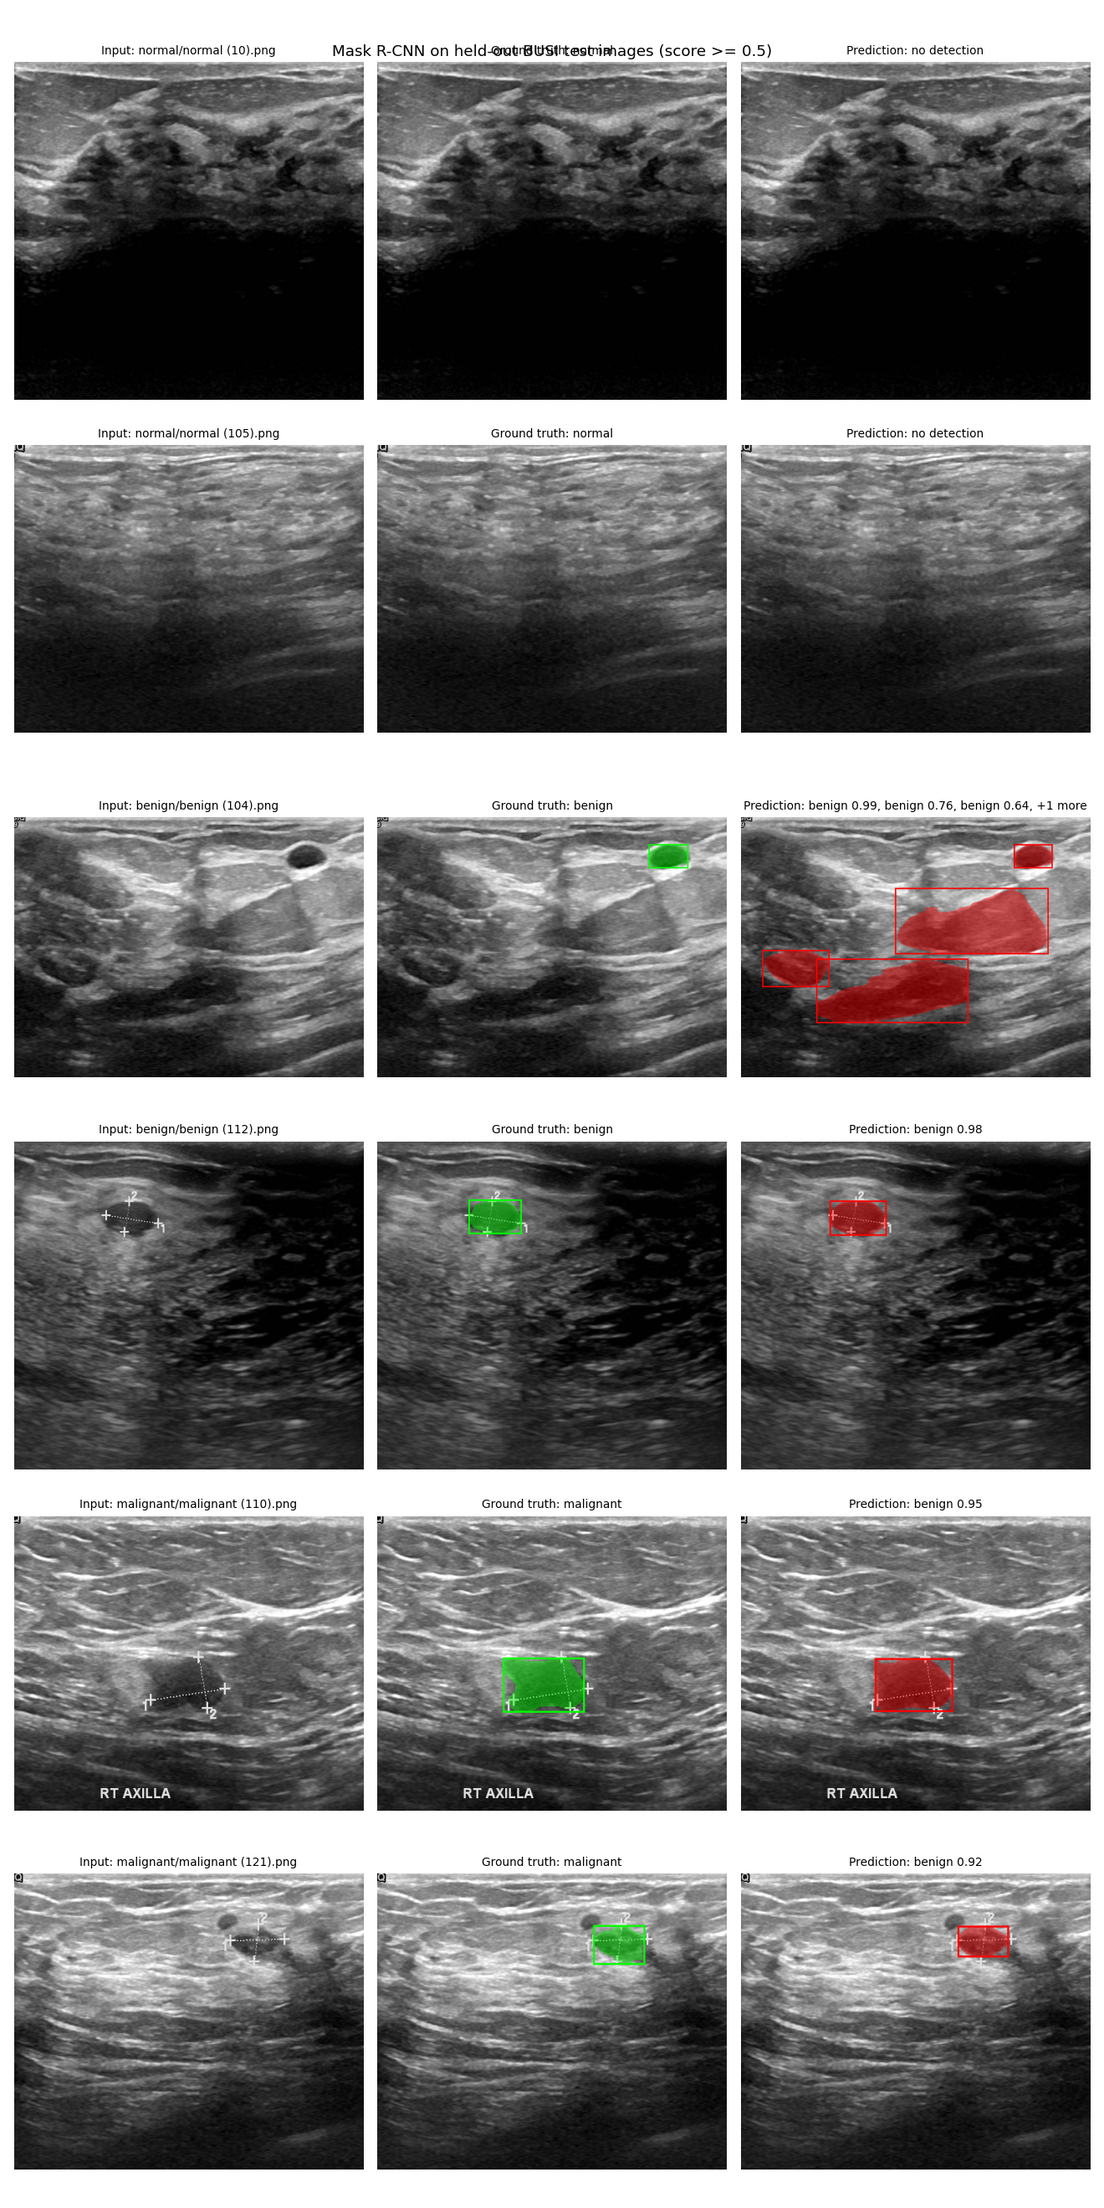
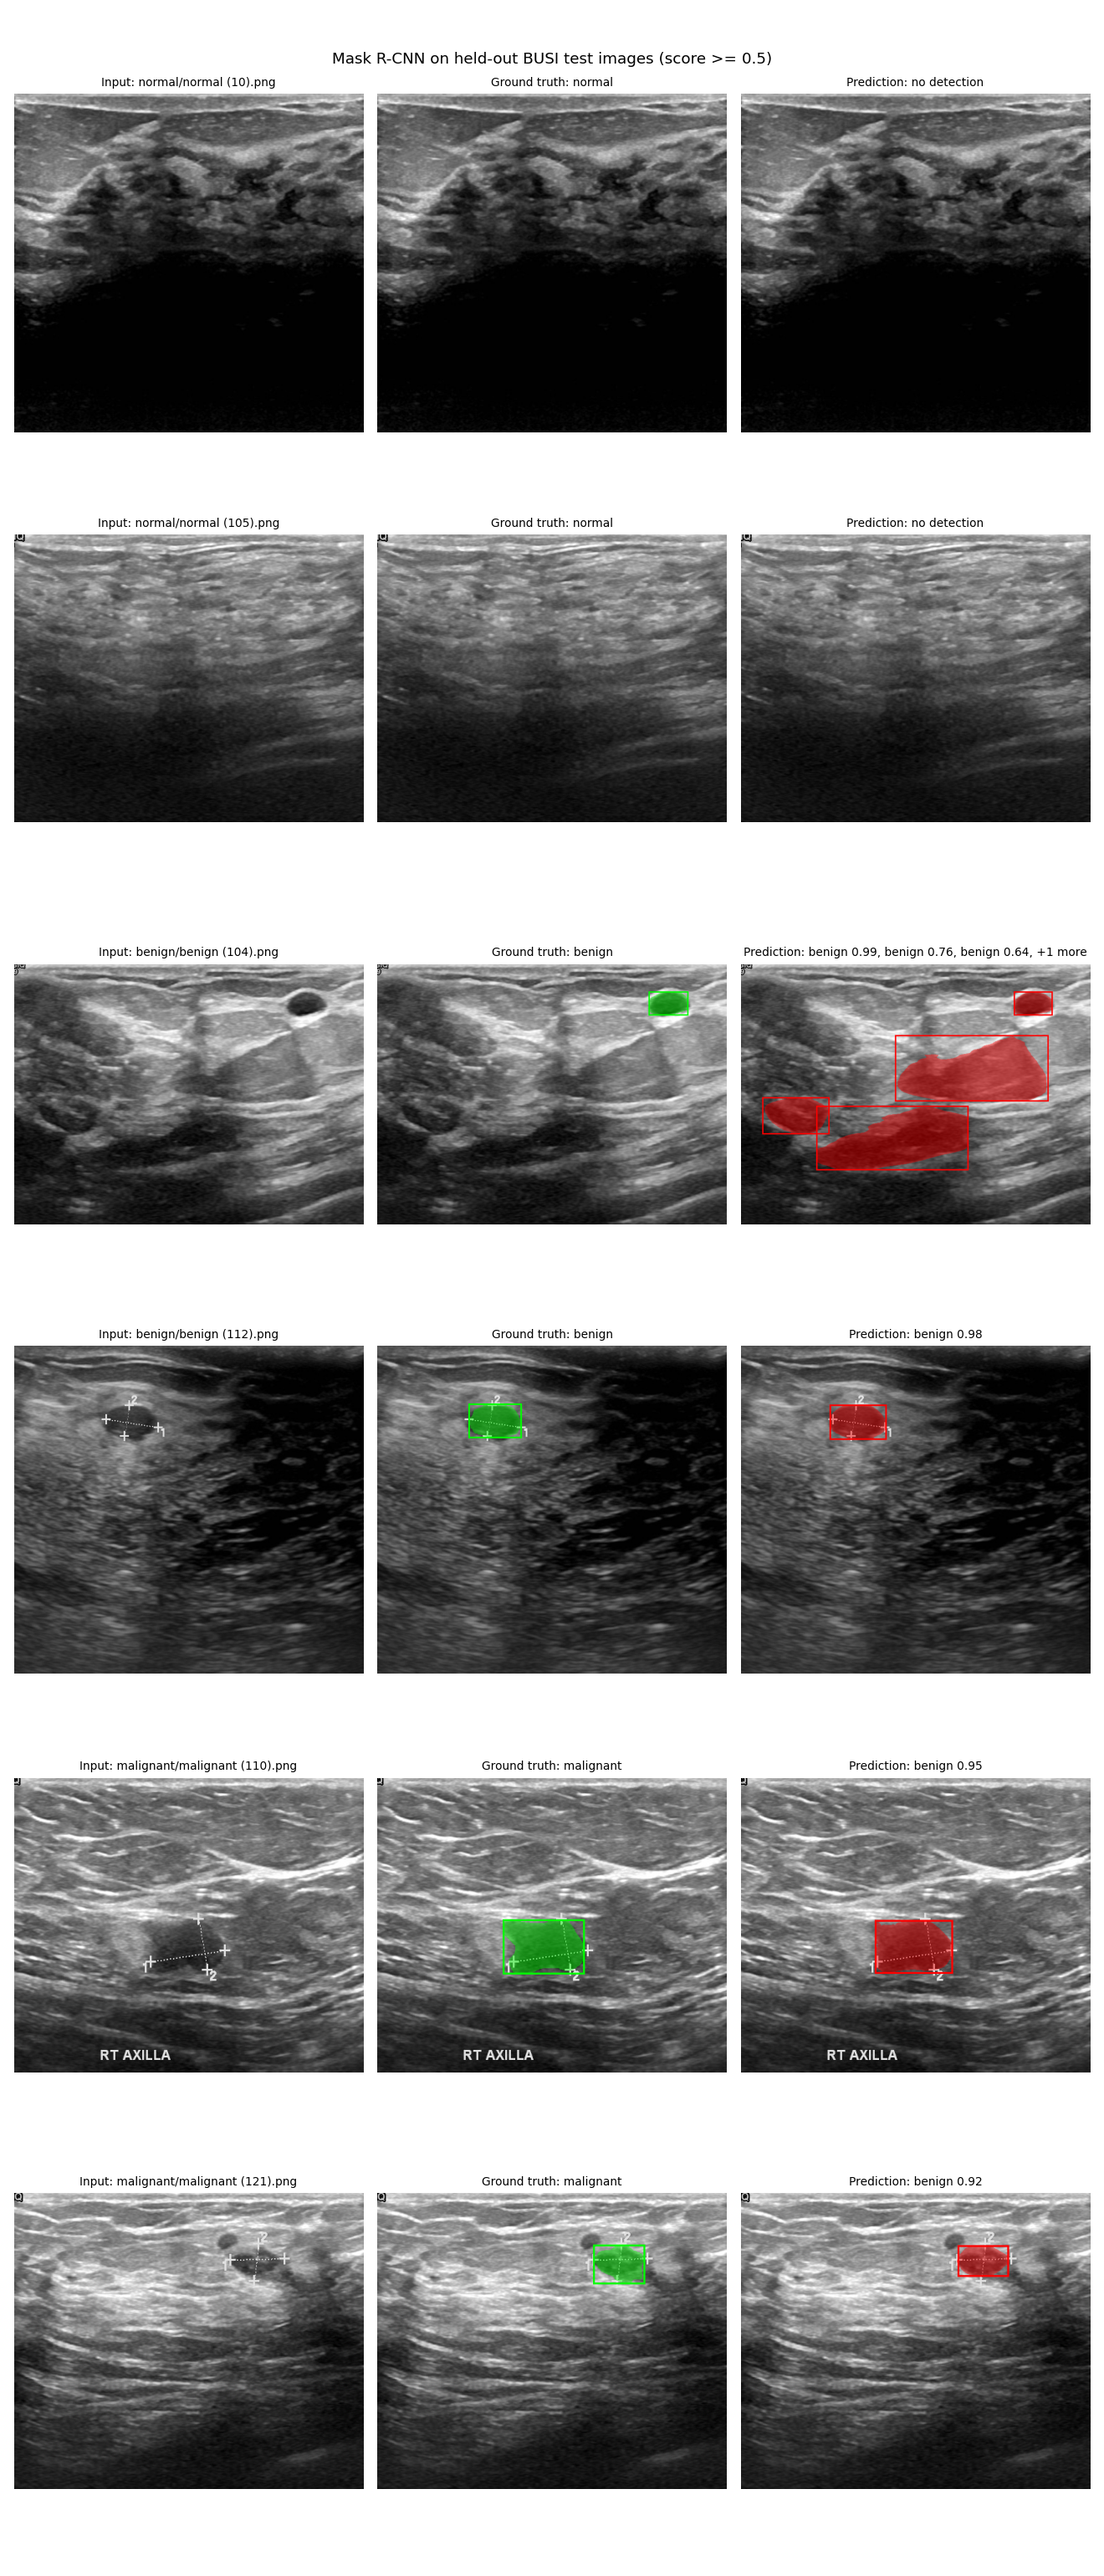
updated sample visualization and produced new output

diff --git a/mask_rcnn/figures.py b/mask_rcnn/figures.py
@@ -51,7 +51,7 @@ def main() -> None:
     chosen = [r for cls in busi.CLASSES for r in [t for t in test if t["class"] == cls][:args.per_class]]
     dataset = busi.BUSIDataset(data_root, chosen, busi.get_transform(train=False))
 
-    fig, axes = plt.subplots(len(chosen), 3, figsize=(12, 4 * len(chosen)), squeeze=False)
+    fig, axes = plt.subplots(len(chosen), 3, figsize=(12, 4 * len(chosen) + 4), squeeze=False)
     for row, (rec, ax) in enumerate(zip(chosen, axes)):
         img, target = dataset[row]
         pred = model([img.to(device)])[0]
